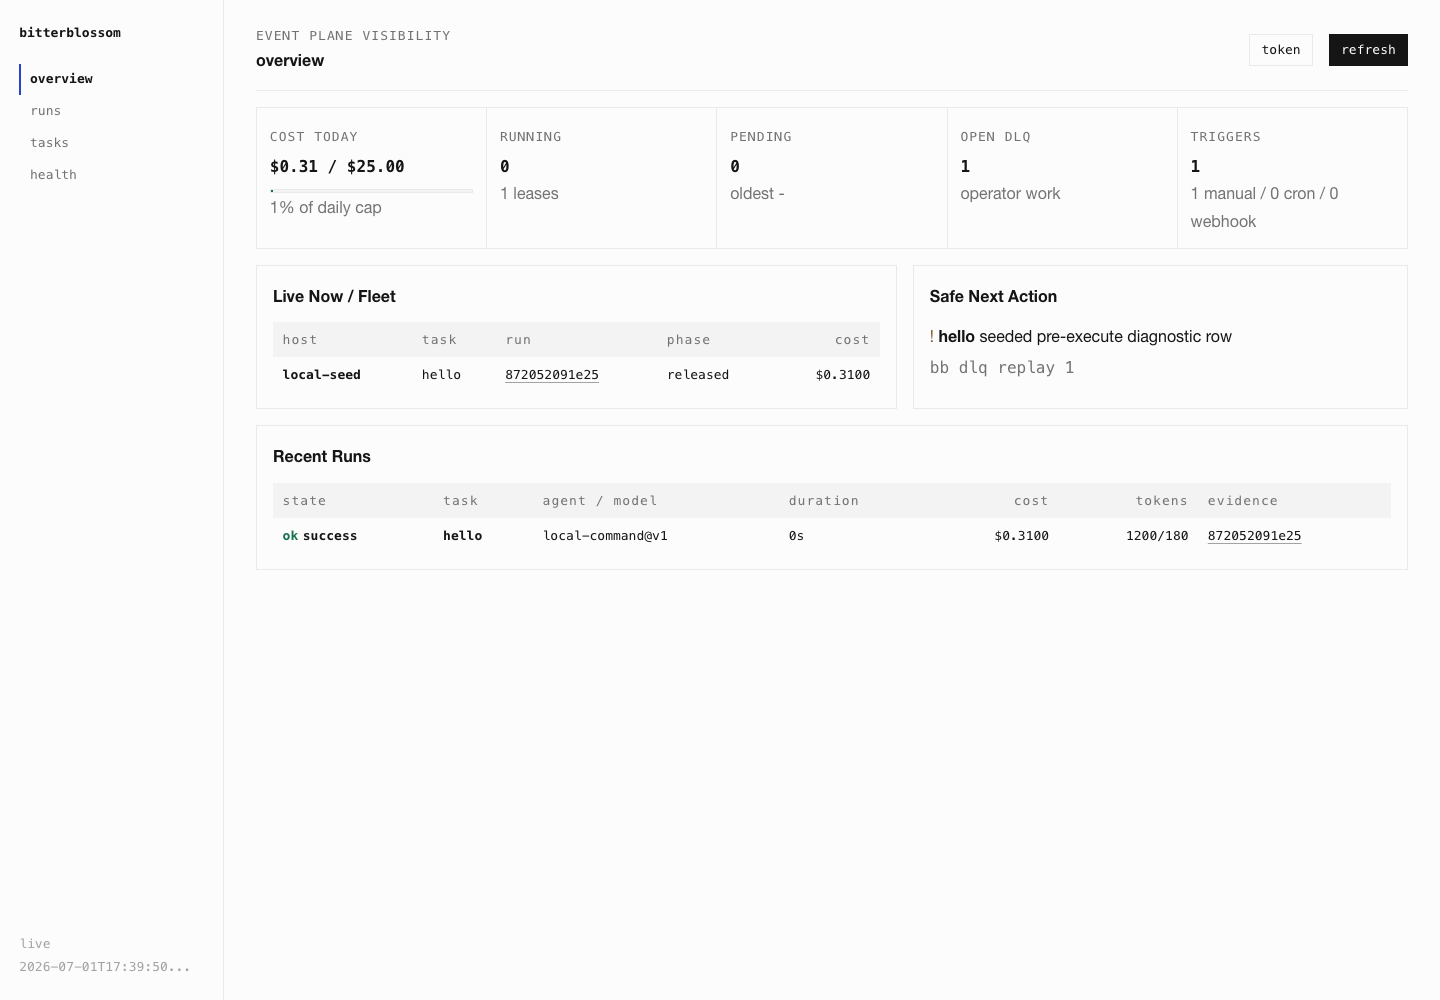
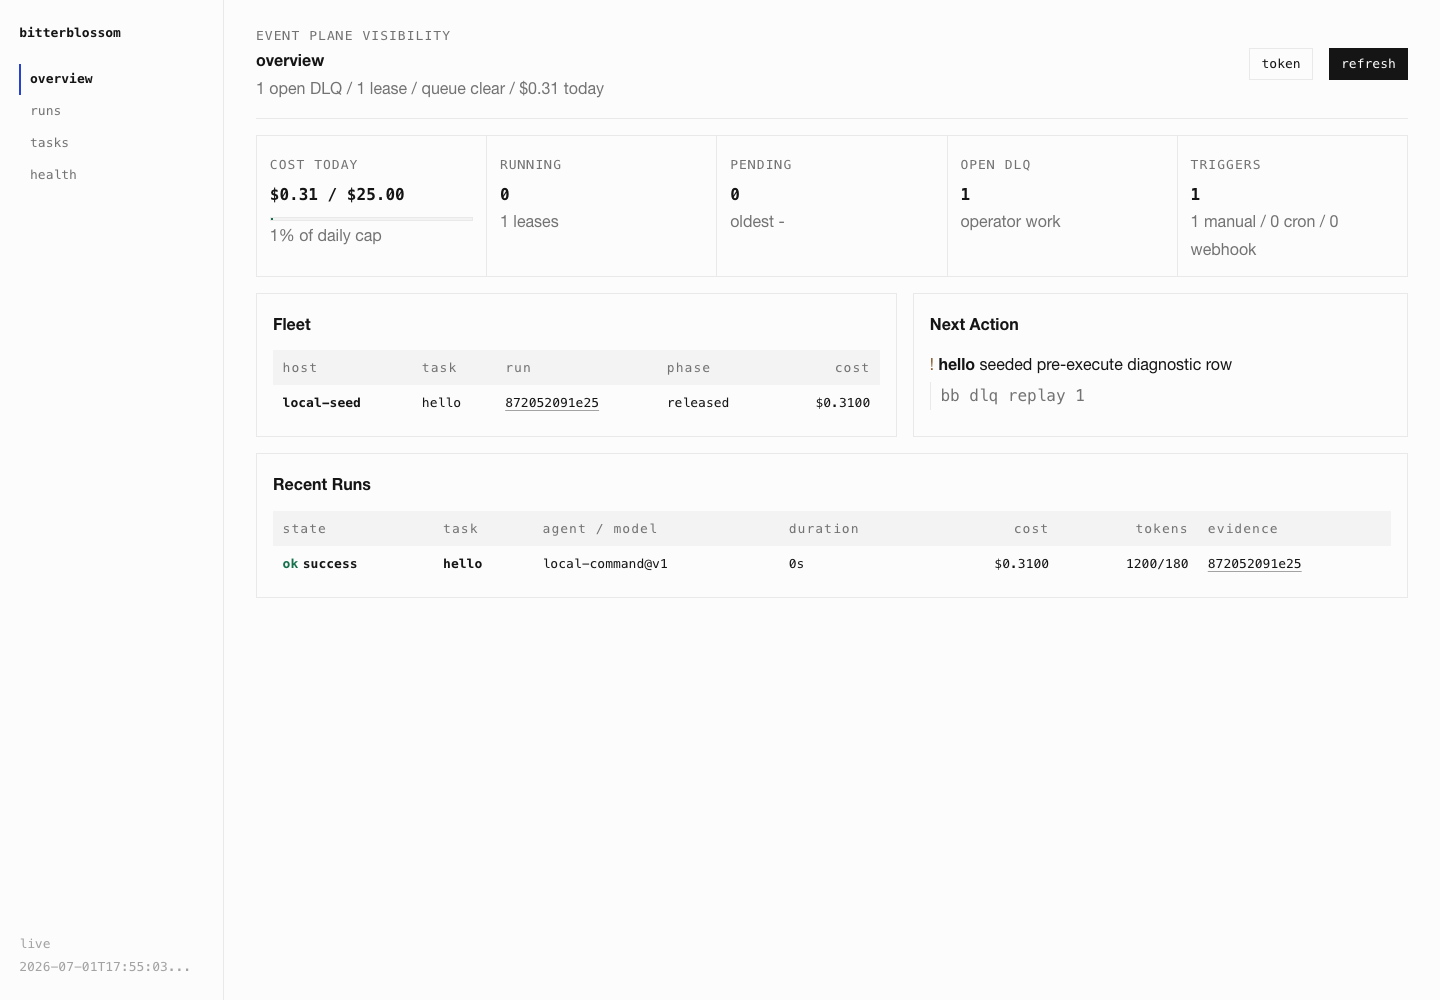
fix(operator): harden and document dashboard service
Address review feedback by resolving active host leases through the ledger instead of the recent-run slice, and by escaping task trigger labels before inserting task rows into the dashboard DOM.

Make the Serenity dashboard serving durable with a launchd/Tailscale installer and operations runbook for https://serenity.tail5f5eb4.ts.net:7443/.

Polish the overview toward the house style with a compact plane sentence, calmer next-action treatment, and refreshed desktop/mobile screenshot evidence.

Verification: ./scripts/verify.sh

Verification: sh -n scripts/install-bb-dashboard-service.sh

Evidence: launchctl print gui/501/com.misty-step.bb-dashboard

Evidence: curl https://serenity.tail5f5eb4.ts.net:7443/ -> 200

Agent: Codex

Agent-Surface: Codex CLI

Agent-Model: GPT-5

Agent-Task: backlog 072

diff --git a/src/operator.html b/src/operator.html
@@ -113,6 +113,11 @@ a:hover { color: var(--accent); text-decoration-color: currentColor; }
   margin-bottom: 1rem;
 }
 .topbar h1 { font-weight: 800; }
+.plane-sentence {
+  color: var(--muted);
+  max-width: 44rem;
+  overflow-wrap: anywhere;
+}
 .chrome {
   font: 13px/1.6 var(--mono);
   color: var(--muted);
@@ -273,6 +278,8 @@ tbody tr:first-child td { border-top: 0; }
 .next-action code {
   display: block;
   margin-top: .25rem;
+  padding-left: .6rem;
+  border-left: 1px solid var(--line);
   color: var(--muted);
   white-space: nowrap;
   overflow: hidden;
@@ -347,6 +354,7 @@ tbody tr:first-child td { border-top: 0; }
       <div class="grow">
         <p class="chrome">event plane visibility</p>
         <h1 id="pageTitle">overview</h1>
+        <p id="planeSentence" class="plane-sentence">loading plane</p>
       </div>
       <form id="tokenForm" class="token" autocomplete="off">
         <label class="chrome" for="apiToken">token</label>
@@ -375,14 +383,14 @@ tbody tr:first-child td { border-top: 0; }
 
       <section class="grid-2">
         <article class="plate">
-          <h2>Live Now / Fleet</h2>
+          <h2>Fleet</h2>
           <div class="table-wrap"><table>
             <thead><tr><th>host</th><th>task</th><th>run</th><th>phase</th><th class="right">cost</th></tr></thead>
             <tbody id="fleetRows"></tbody>
           </table></div>
         </article>
         <article class="plate">
-          <h2>Safe Next Action</h2>
+          <h2>Next Action</h2>
           <div id="actions" class="actions"></div>
         </article>
       </section>
@@ -527,12 +535,29 @@ function tokenTotals() {
 
 function render() {
   if (!state.data) return;
+  renderPlaneSentence();
   renderSummary();
   renderFleet();
   renderActions();
   renderRuns();
   renderTasks();
   renderHealth();
+}
+
+function renderPlaneSentence() {
+  const summary = state.data.status.summary || {};
+  const running = state.data.runs.filter((r) => r.state === "running").length;
+  const pending = state.data.runs.filter((r) => r.state === "pending").length;
+  const openDlq = summary.open_dlq || 0;
+  const activeLeases = summary.active_leases || state.data.leases.length;
+  const parts = [
+    openDlq ? `${openDlq} open DLQ` : "DLQ clear",
+    activeLeases ? `${activeLeases} lease${activeLeases === 1 ? "" : "s"}` : "no leases",
+    pending ? `${pending} pending` : "queue clear",
+    running ? `${running} running` : null,
+    `${fmtMoney(summary.cost_today_usd || 0)} today`
+  ].filter(Boolean);
+  $("planeSentence").textContent = parts.join(" / ");
 }
 
 function renderSummary() {
@@ -640,11 +665,7 @@ function runRow(run, totals, compact = false) {
 
 function renderTasks() {
   $("taskRows").innerHTML = state.data.tasks.map((task) => {
-    const triggers = (task.trigger_details || []).map((trigger) => {
-      if (trigger.kind === "cron") return `cron ${trigger.schedule}`;
-      if (trigger.kind === "webhook") return `webhook /hooks/${trigger.route}`;
-      return trigger.kind;
-    }).join("<br>");
+    const triggers = (task.trigger_details || []).map(triggerLabel).join("<br>");
     const budget = [
       task.max_runs_per_day == null ? null : `${task.runs_today}/${task.max_runs_per_day} runs`,
       task.max_cost_per_run_usd == null ? null : `${fmtMoney(task.max_cost_per_run_usd)} per run`,
@@ -660,6 +681,12 @@ function renderTasks() {
       <td>${parked}</td>
     </tr>`;
   }).join("") || `<tr><td colspan="6" class="empty">no tasks configured</td></tr>`;
+}
+
+function triggerLabel(trigger) {
+  if (trigger.kind === "cron") return `cron ${esc(trigger.schedule)}`;
+  if (trigger.kind === "webhook") return `webhook /hooks/${esc(trigger.route)}`;
+  return esc(trigger.kind);
 }
 
 function renderHealth() {

diff --git a/tests/status_view.rs b/tests/status_view.rs
@@ -144,3 +144,25 @@ fn status_view_covers_operator_truth_fixtures() {
     assert!(recovery_action["age_seconds"].as_i64().unwrap() >= 3600);
     assert_eq!(recovery_action["stale_after_seconds"], 3600);
 }
+
+#[test]
+fn status_view_reports_active_lease_even_when_run_is_outside_recent_window() {
+    let dir = tempfile::tempdir().unwrap();
+    write_plane(dir.path());
+    let plane = Plane::load(dir.path()).unwrap();
+    let mut ledger = Ledger::open(&plane.db_path()).unwrap();
+
+    let leased = ingest(&mut ledger, "review");
+    ledger.transition(&leased, "running", None).unwrap();
+    ledger.try_acquire_host_lease("lane-old", &leased).unwrap();
+    for _ in 0..205 {
+        ingest(&mut ledger, "review");
+    }
+
+    let doc = health::status_view(&plane, &ledger).unwrap();
+    let tasks = doc["tasks"].as_array().unwrap();
+    let review = tasks.iter().find(|t| t["task"] == "review").unwrap();
+
+    assert_eq!(review["lease"]["host"], "lane-old");
+    assert_eq!(review["lease"]["run_id"], leased);
+}

diff --git a/src/health.rs b/src/health.rs
@@ -1,4 +1,4 @@
-use std::collections::BTreeMap;
+use std::collections::{BTreeMap, HashMap};
 
 use anyhow::Result;
 use serde_json::{json, Value};
@@ -13,6 +13,15 @@ pub fn status_view(plane: &Plane, ledger: &Ledger) -> Result<Value> {
     let runs = ledger.list_runs(None, None)?;
     let dead_letters = ledger.list_dead_letters()?;
     let leases = ledger.list_host_leases()?;
+    let lease_runs = leases
+        .iter()
+        .filter_map(|lease| {
+            ledger
+                .run(&lease.run_id)
+                .ok()
+                .map(|run| (lease.run_id.clone(), run))
+        })
+        .collect::<HashMap<_, _>>();
     let ingress_events = ledger.latest_ingress_events(200)?;
     let generated_at = OffsetDateTime::now_utc();
     let open_dlq = dead_letters.iter().filter(|d| d.status == "open").count();
@@ -57,9 +66,9 @@ pub fn status_view(plane: &Plane, ledger: &Ledger) -> Result<Value> {
             .count();
         let latest_ingress = ingress_events.iter().find(|e| e.task == task.name);
         let active_lease = leases.iter().find(|l| {
-            task_runs
-                .iter()
-                .any(|r| r.id == l.run_id && r.state == "running")
+            lease_runs
+                .get(&l.run_id)
+                .is_some_and(|r| r.task == task.name && r.state == "running")
         });
 
         tasks.push(json!({

diff --git a/tests/serve.rs b/tests/serve.rs
@@ -279,6 +279,16 @@ fn tasks_view_reports_trigger_details() {
 }
 
 #[test]
+fn operator_html_escapes_trigger_labels_before_inserting_task_rows() {
+    let html = include_str!("../src/operator.html");
+
+    assert!(html.contains("map(triggerLabel).join(\"<br>\")"));
+    assert!(html.contains("return `cron ${esc(trigger.schedule)}`"));
+    assert!(html.contains("return `webhook /hooks/${esc(trigger.route)}`"));
+    assert!(html.contains("return esc(trigger.kind);"));
+}
+
+#[test]
 fn read_api_exposes_dashboard_observability_routes() {
     let dir = tempfile::tempdir().unwrap();
     write_dispatch_plane(dir.path());

diff --git a/docs/operations/bb-dashboard.md b/docs/operations/bb-dashboard.md
@@ -1,0 +1,73 @@
+# BB Dashboard Local Service
+
+This runbook makes the review dashboard durable on Serenity:
+
+- local service: `http://127.0.0.1:7091/`
+- tailnet URL: `https://serenity.tail5f5eb4.ts.net:7443/`
+- launchd label: `com.misty-step.bb-dashboard`
+- plane state: `~/.local/share/bitterblossom/bb-dashboard-plane`
+- logs: `~/.local/state/bitterblossom/bb-dashboard.{out,err}.log`
+
+The service intentionally uses a local dev/demo plane, not `plane/`. `bb serve`
+starts cron and dispatch loops; pointing this reviewer dashboard at production
+state would make viewing the UI an execution surface.
+
+## Install Or Refresh
+
+From the checkout:
+
+```sh
+./scripts/install-bb-dashboard-service.sh
+```
+
+The installer:
+
+1. Builds `target/debug/bb` if needed.
+2. Creates the persistent local dashboard plane if it does not already exist.
+3. Writes `~/Library/LaunchAgents/com.misty-step.bb-dashboard.plist`.
+4. Boots the LaunchAgent with `BB_INGRESS_BIND=127.0.0.1:7091`.
+5. Reasserts the Tailscale Serve mapping from HTTPS `:7443` to the local port.
+
+Override knobs:
+
+```sh
+BB_DASHBOARD_PLANE=~/.local/share/bitterblossom/bb-dashboard-plane \
+BB_DASHBOARD_PORT=7091 \
+BB_DASHBOARD_TAILSCALE_HTTPS_PORT=7443 \
+./scripts/install-bb-dashboard-service.sh
+```
+
+## Verify
+
+```sh
+launchctl print gui/$(id -u)/com.misty-step.bb-dashboard | sed -n '1,80p'
+curl -fsS http://127.0.0.1:7091/ >/dev/null
+curl -fsS https://serenity.tail5f5eb4.ts.net:7443/ >/dev/null
+tailscale serve status
+```
+
+The expected Tailscale stanza is:
+
+```text
+https://serenity.tail5f5eb4.ts.net:7443 (tailnet only)
+|-- / proxy http://127.0.0.1:7091
+```
+
+## Stop
+
+```sh
+launchctl bootout gui/$(id -u) ~/Library/LaunchAgents/com.misty-step.bb-dashboard.plist
+tailscale serve clear serenity.tail5f5eb4.ts.net:7443
+```
+
+`bootout` stops the local process. `tailscale serve clear` should only be used
+after `tailscale serve status` confirms `:7443` still belongs to this dashboard;
+do not reset the full Serve config because Serenity hosts other local tools.
+
+## Bastion Option
+
+If the dashboard graduates from local review to shared internal service,
+coordinate with the bastion/subnet-router lane instead of exposing the dev
+plane directly. The desired shape is `bb-dashboard.internal` routing to a
+declared service endpoint, while this local runbook remains the safe reviewer
+path.

diff --git a/docs/operations/README.md b/docs/operations/README.md
@@ -14,6 +14,10 @@ export BB_URL=https://bitterblossom-plane.fly.dev
 The production SQLite ledger lives on the Fly volume mounted at
 `/app/plane/.bb`, with the database path `/app/plane/.bb/plane.db`.
 
+For the local reviewer dashboard served on Serenity over Tailscale, see
+[`bb-dashboard.md`](bb-dashboard.md). That service intentionally runs a local
+dev/demo plane rather than the production plane.
+
 ## Preflight
 
 Before dispatching a storm or touching production, check the operator surface: